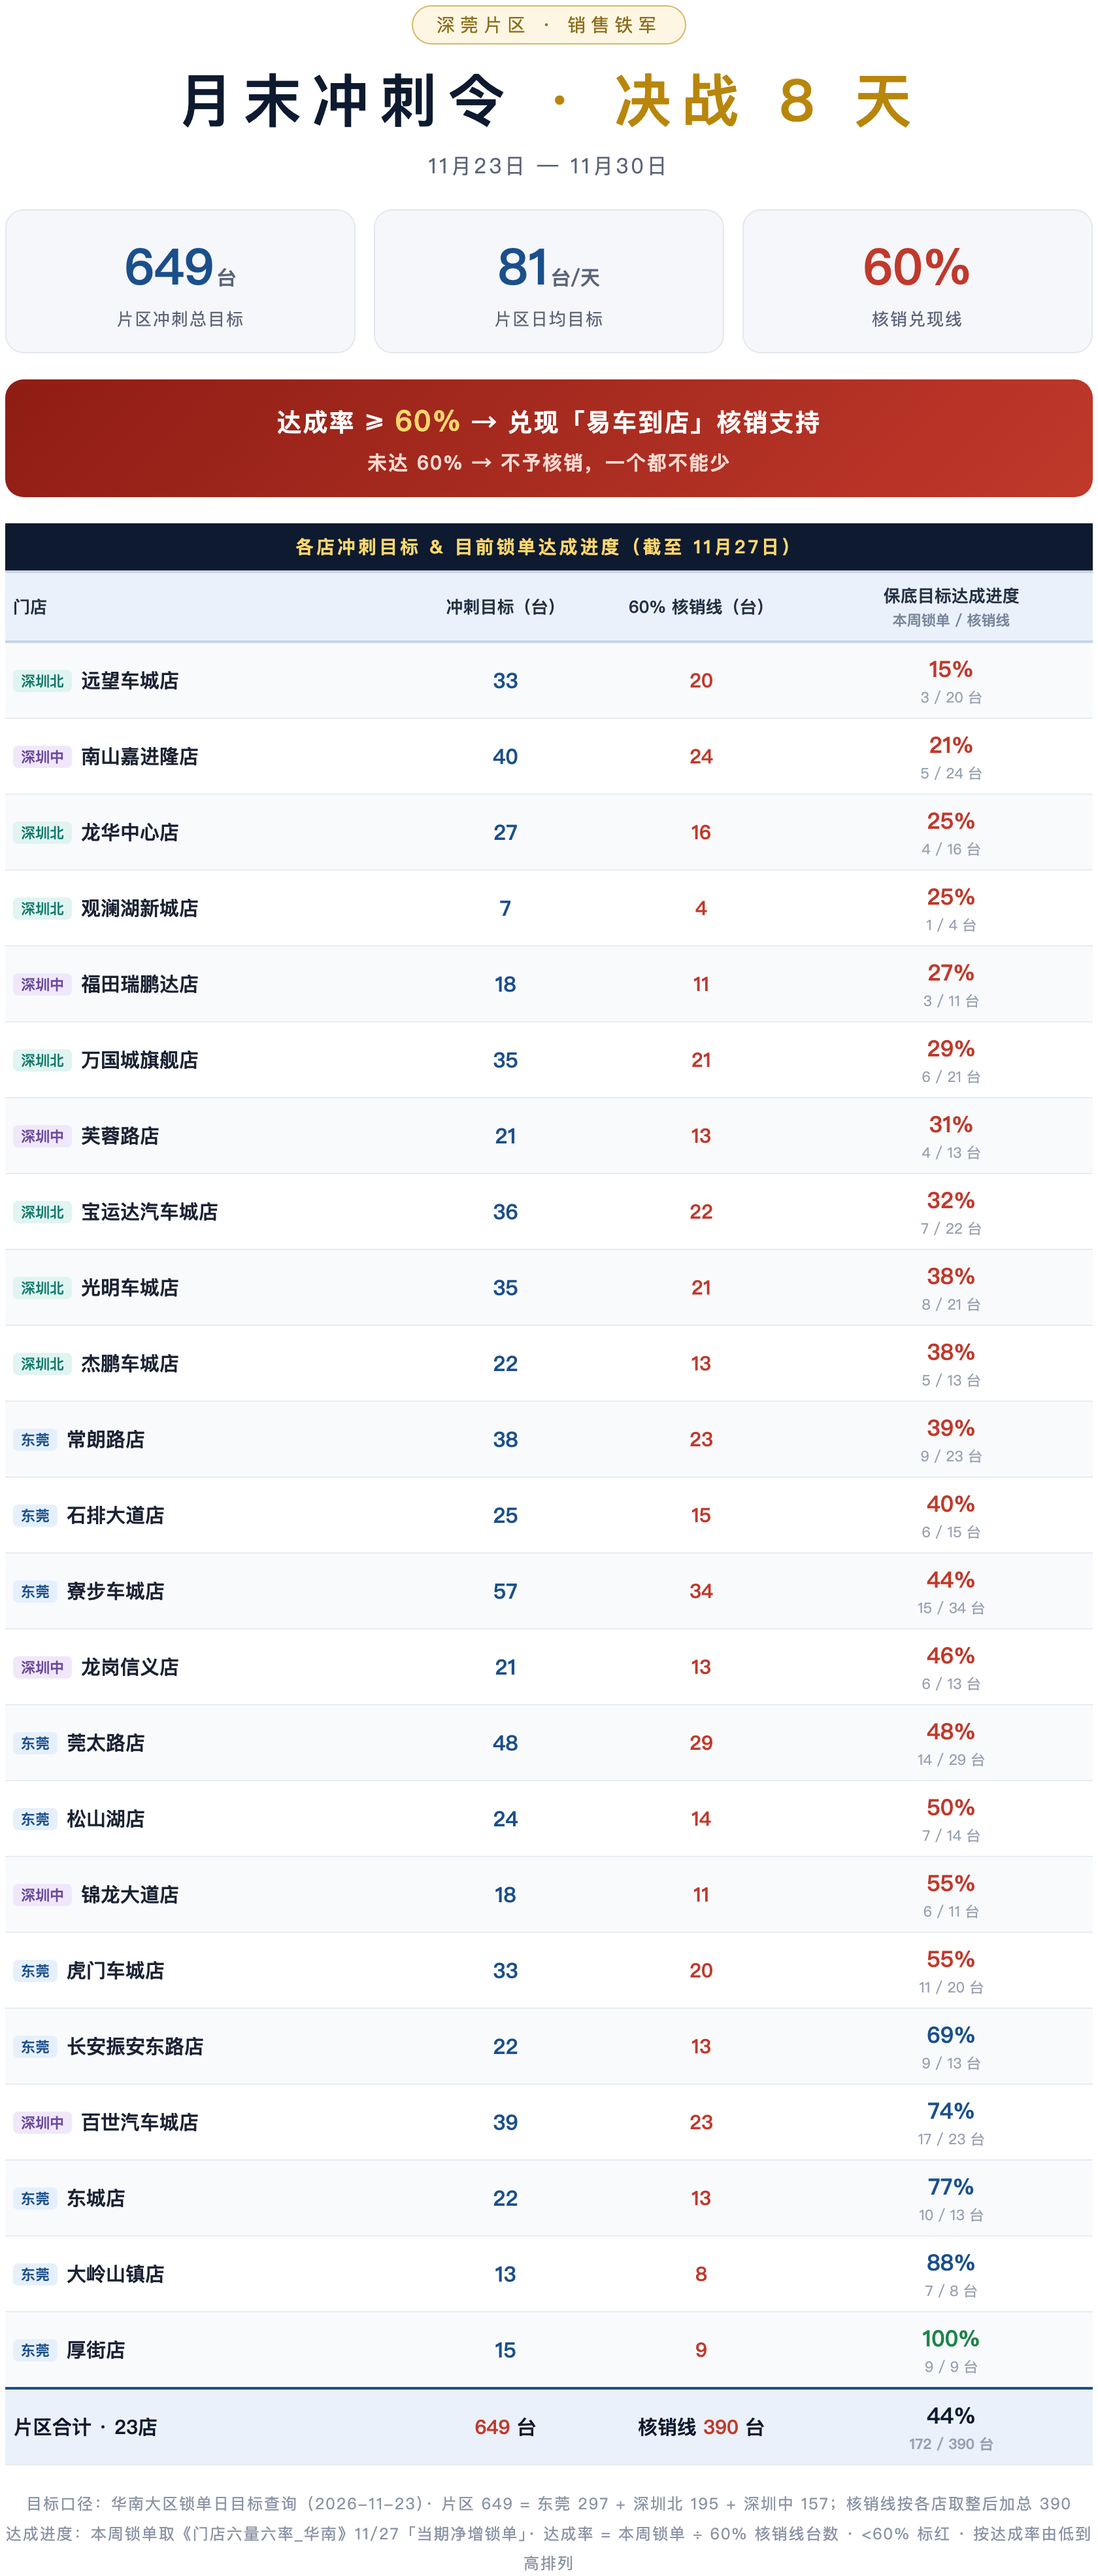
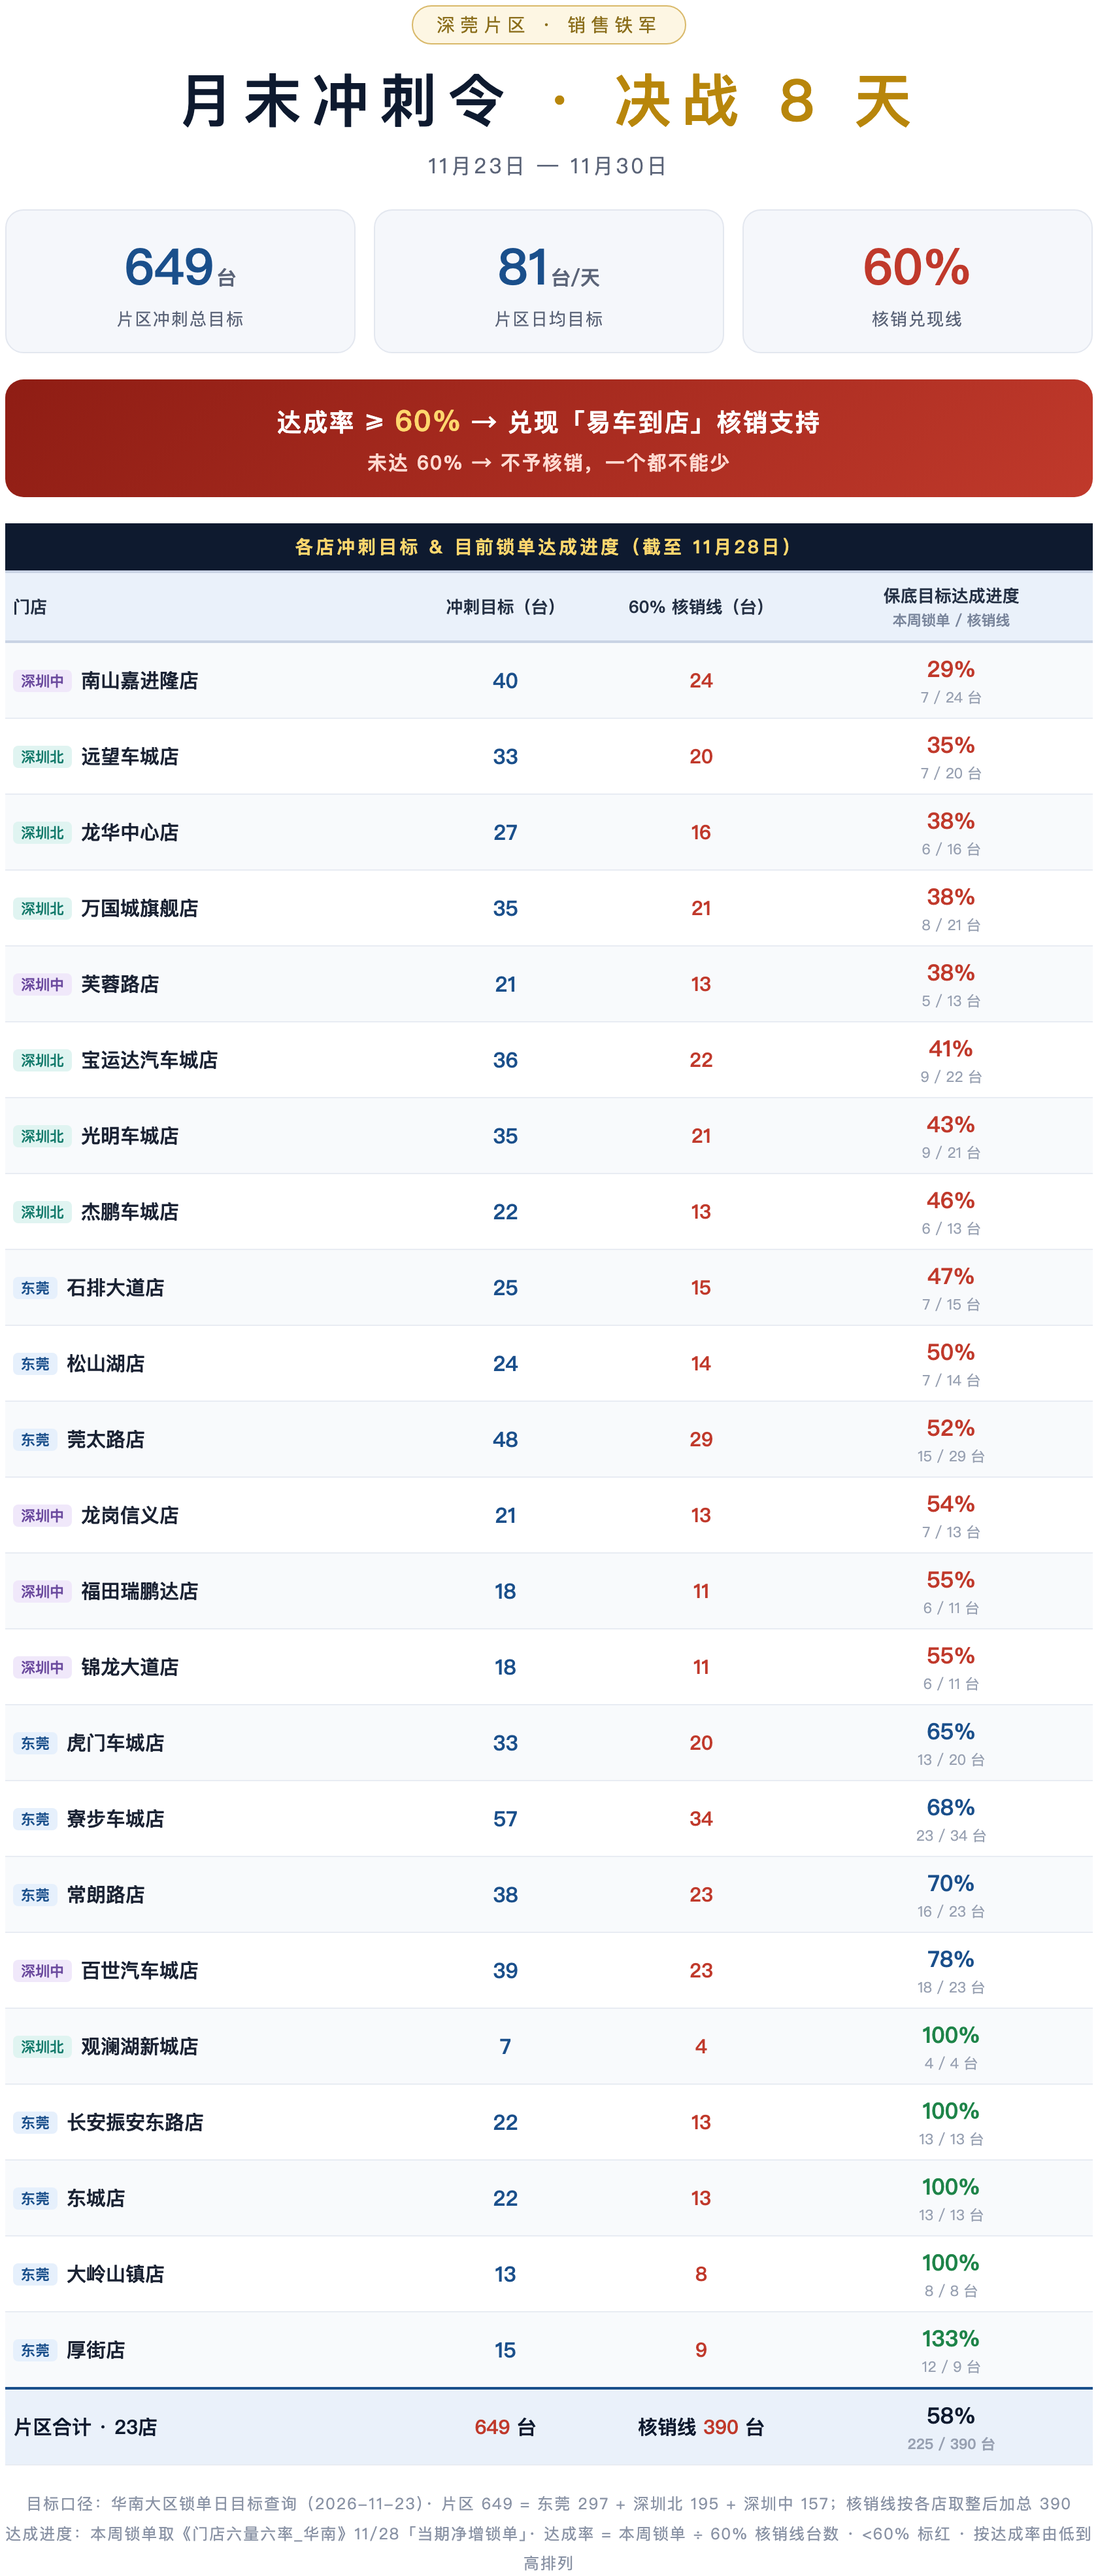
冲刺令店长版海报刷新达成情况 数据截至11/28 六量六率 片区58%(225/390) 14红4蓝5绿

diff --git a/sprint_poster_1123.html b/sprint_poster_1123.html
@@ -69,7 +69,7 @@
   <table>
     <colgroup><col style="width:38%"><col style="width:16%"><col style="width:20%"><col style="width:26%"></colgroup>
     <thead>
-      <tr class="grp"><th colspan="4">各店冲刺目标 &amp; 目前锁单达成进度（截至 11月27日）</th></tr>
+      <tr class="grp"><th colspan="4">各店冲刺目标 &amp; 目前锁单达成进度（截至 11月28日）</th></tr>
       <tr>
         <th style="text-align:left">门店</th>
         <th>冲刺目标（台）</th>
@@ -82,12 +82,12 @@
 
   <div class="foot">
     目标口径：华南大区锁单日目标查询（2026-11-23）· 片区 649 = 东莞 297 + 深圳北 195 + 深圳中 157；核销线按各店取整后加总 390<br>
-    达成进度：本周锁单取《门店六量六率_华南》11/27「当期净增锁单」· 达成率 = 本周锁单 ÷ 60% 核销线台数 · &lt;60% 标红 · 按达成率由低到高排列
+    达成进度：本周锁单取《门店六量六率_华南》11/28「当期净增锁单」· 达成率 = 本周锁单 ÷ 60% 核销线台数 · &lt;60% 标红 · 按达成率由低到高排列
   </div>
 </div>
 
 <script>
-const DATA = [{"name":"远望车城店","city":"深圳北","tgt":33,"line":20,"lock":3,"pct":15},{"name":"南山嘉进隆店","city":"深圳中","tgt":40,"line":24,"lock":5,"pct":21},{"name":"龙华中心店","city":"深圳北","tgt":27,"line":16,"lock":4,"pct":25},{"name":"观澜湖新城店","city":"深圳北","tgt":7,"line":4,"lock":1,"pct":25},{"name":"福田瑞鹏达店","city":"深圳中","tgt":18,"line":11,"lock":3,"pct":27},{"name":"万国城旗舰店","city":"深圳北","tgt":35,"line":21,"lock":6,"pct":29},{"name":"芙蓉路店","city":"深圳中","tgt":21,"line":13,"lock":4,"pct":31},{"name":"宝运达汽车城店","city":"深圳北","tgt":36,"line":22,"lock":7,"pct":32},{"name":"光明车城店","city":"深圳北","tgt":35,"line":21,"lock":8,"pct":38},{"name":"杰鹏车城店","city":"深圳北","tgt":22,"line":13,"lock":5,"pct":38},{"name":"常朗路店","city":"东莞","tgt":38,"line":23,"lock":9,"pct":39},{"name":"石排大道店","city":"东莞","tgt":25,"line":15,"lock":6,"pct":40},{"name":"寮步车城店","city":"东莞","tgt":57,"line":34,"lock":15,"pct":44},{"name":"龙岗信义店","city":"深圳中","tgt":21,"line":13,"lock":6,"pct":46},{"name":"莞太路店","city":"东莞","tgt":48,"line":29,"lock":14,"pct":48},{"name":"松山湖店","city":"东莞","tgt":24,"line":14,"lock":7,"pct":50},{"name":"锦龙大道店","city":"深圳中","tgt":18,"line":11,"lock":6,"pct":55},{"name":"虎门车城店","city":"东莞","tgt":33,"line":20,"lock":11,"pct":55},{"name":"长安振安东路店","city":"东莞","tgt":22,"line":13,"lock":9,"pct":69},{"name":"百世汽车城店","city":"深圳中","tgt":39,"line":23,"lock":17,"pct":74},{"name":"东城店","city":"东莞","tgt":22,"line":13,"lock":10,"pct":77},{"name":"大岭山镇店","city":"东莞","tgt":13,"line":8,"lock":7,"pct":88},{"name":"厚街店","city":"东莞","tgt":15,"line":9,"lock":9,"pct":100}];
+const DATA = [{"name":"南山嘉进隆店","city":"深圳中","tgt":40,"line":24,"lock":7,"pct":29},{"name":"远望车城店","city":"深圳北","tgt":33,"line":20,"lock":7,"pct":35},{"name":"龙华中心店","city":"深圳北","tgt":27,"line":16,"lock":6,"pct":38},{"name":"万国城旗舰店","city":"深圳北","tgt":35,"line":21,"lock":8,"pct":38},{"name":"芙蓉路店","city":"深圳中","tgt":21,"line":13,"lock":5,"pct":38},{"name":"宝运达汽车城店","city":"深圳北","tgt":36,"line":22,"lock":9,"pct":41},{"name":"光明车城店","city":"深圳北","tgt":35,"line":21,"lock":9,"pct":43},{"name":"杰鹏车城店","city":"深圳北","tgt":22,"line":13,"lock":6,"pct":46},{"name":"石排大道店","city":"东莞","tgt":25,"line":15,"lock":7,"pct":47},{"name":"松山湖店","city":"东莞","tgt":24,"line":14,"lock":7,"pct":50},{"name":"莞太路店","city":"东莞","tgt":48,"line":29,"lock":15,"pct":52},{"name":"龙岗信义店","city":"深圳中","tgt":21,"line":13,"lock":7,"pct":54},{"name":"福田瑞鹏达店","city":"深圳中","tgt":18,"line":11,"lock":6,"pct":55},{"name":"锦龙大道店","city":"深圳中","tgt":18,"line":11,"lock":6,"pct":55},{"name":"虎门车城店","city":"东莞","tgt":33,"line":20,"lock":13,"pct":65},{"name":"寮步车城店","city":"东莞","tgt":57,"line":34,"lock":23,"pct":68},{"name":"常朗路店","city":"东莞","tgt":38,"line":23,"lock":16,"pct":70},{"name":"百世汽车城店","city":"深圳中","tgt":39,"line":23,"lock":18,"pct":78},{"name":"观澜湖新城店","city":"深圳北","tgt":7,"line":4,"lock":4,"pct":100},{"name":"长安振安东路店","city":"东莞","tgt":22,"line":13,"lock":13,"pct":100},{"name":"东城店","city":"东莞","tgt":22,"line":13,"lock":13,"pct":100},{"name":"大岭山镇店","city":"东莞","tgt":13,"line":8,"lock":8,"pct":100},{"name":"厚街店","city":"东莞","tgt":15,"line":9,"lock":12,"pct":133}];
 const cityCls = {'东莞':'dg','深圳北':'sb','深圳中':'sz'};
 let html = '';
 DATA.forEach(o => {
